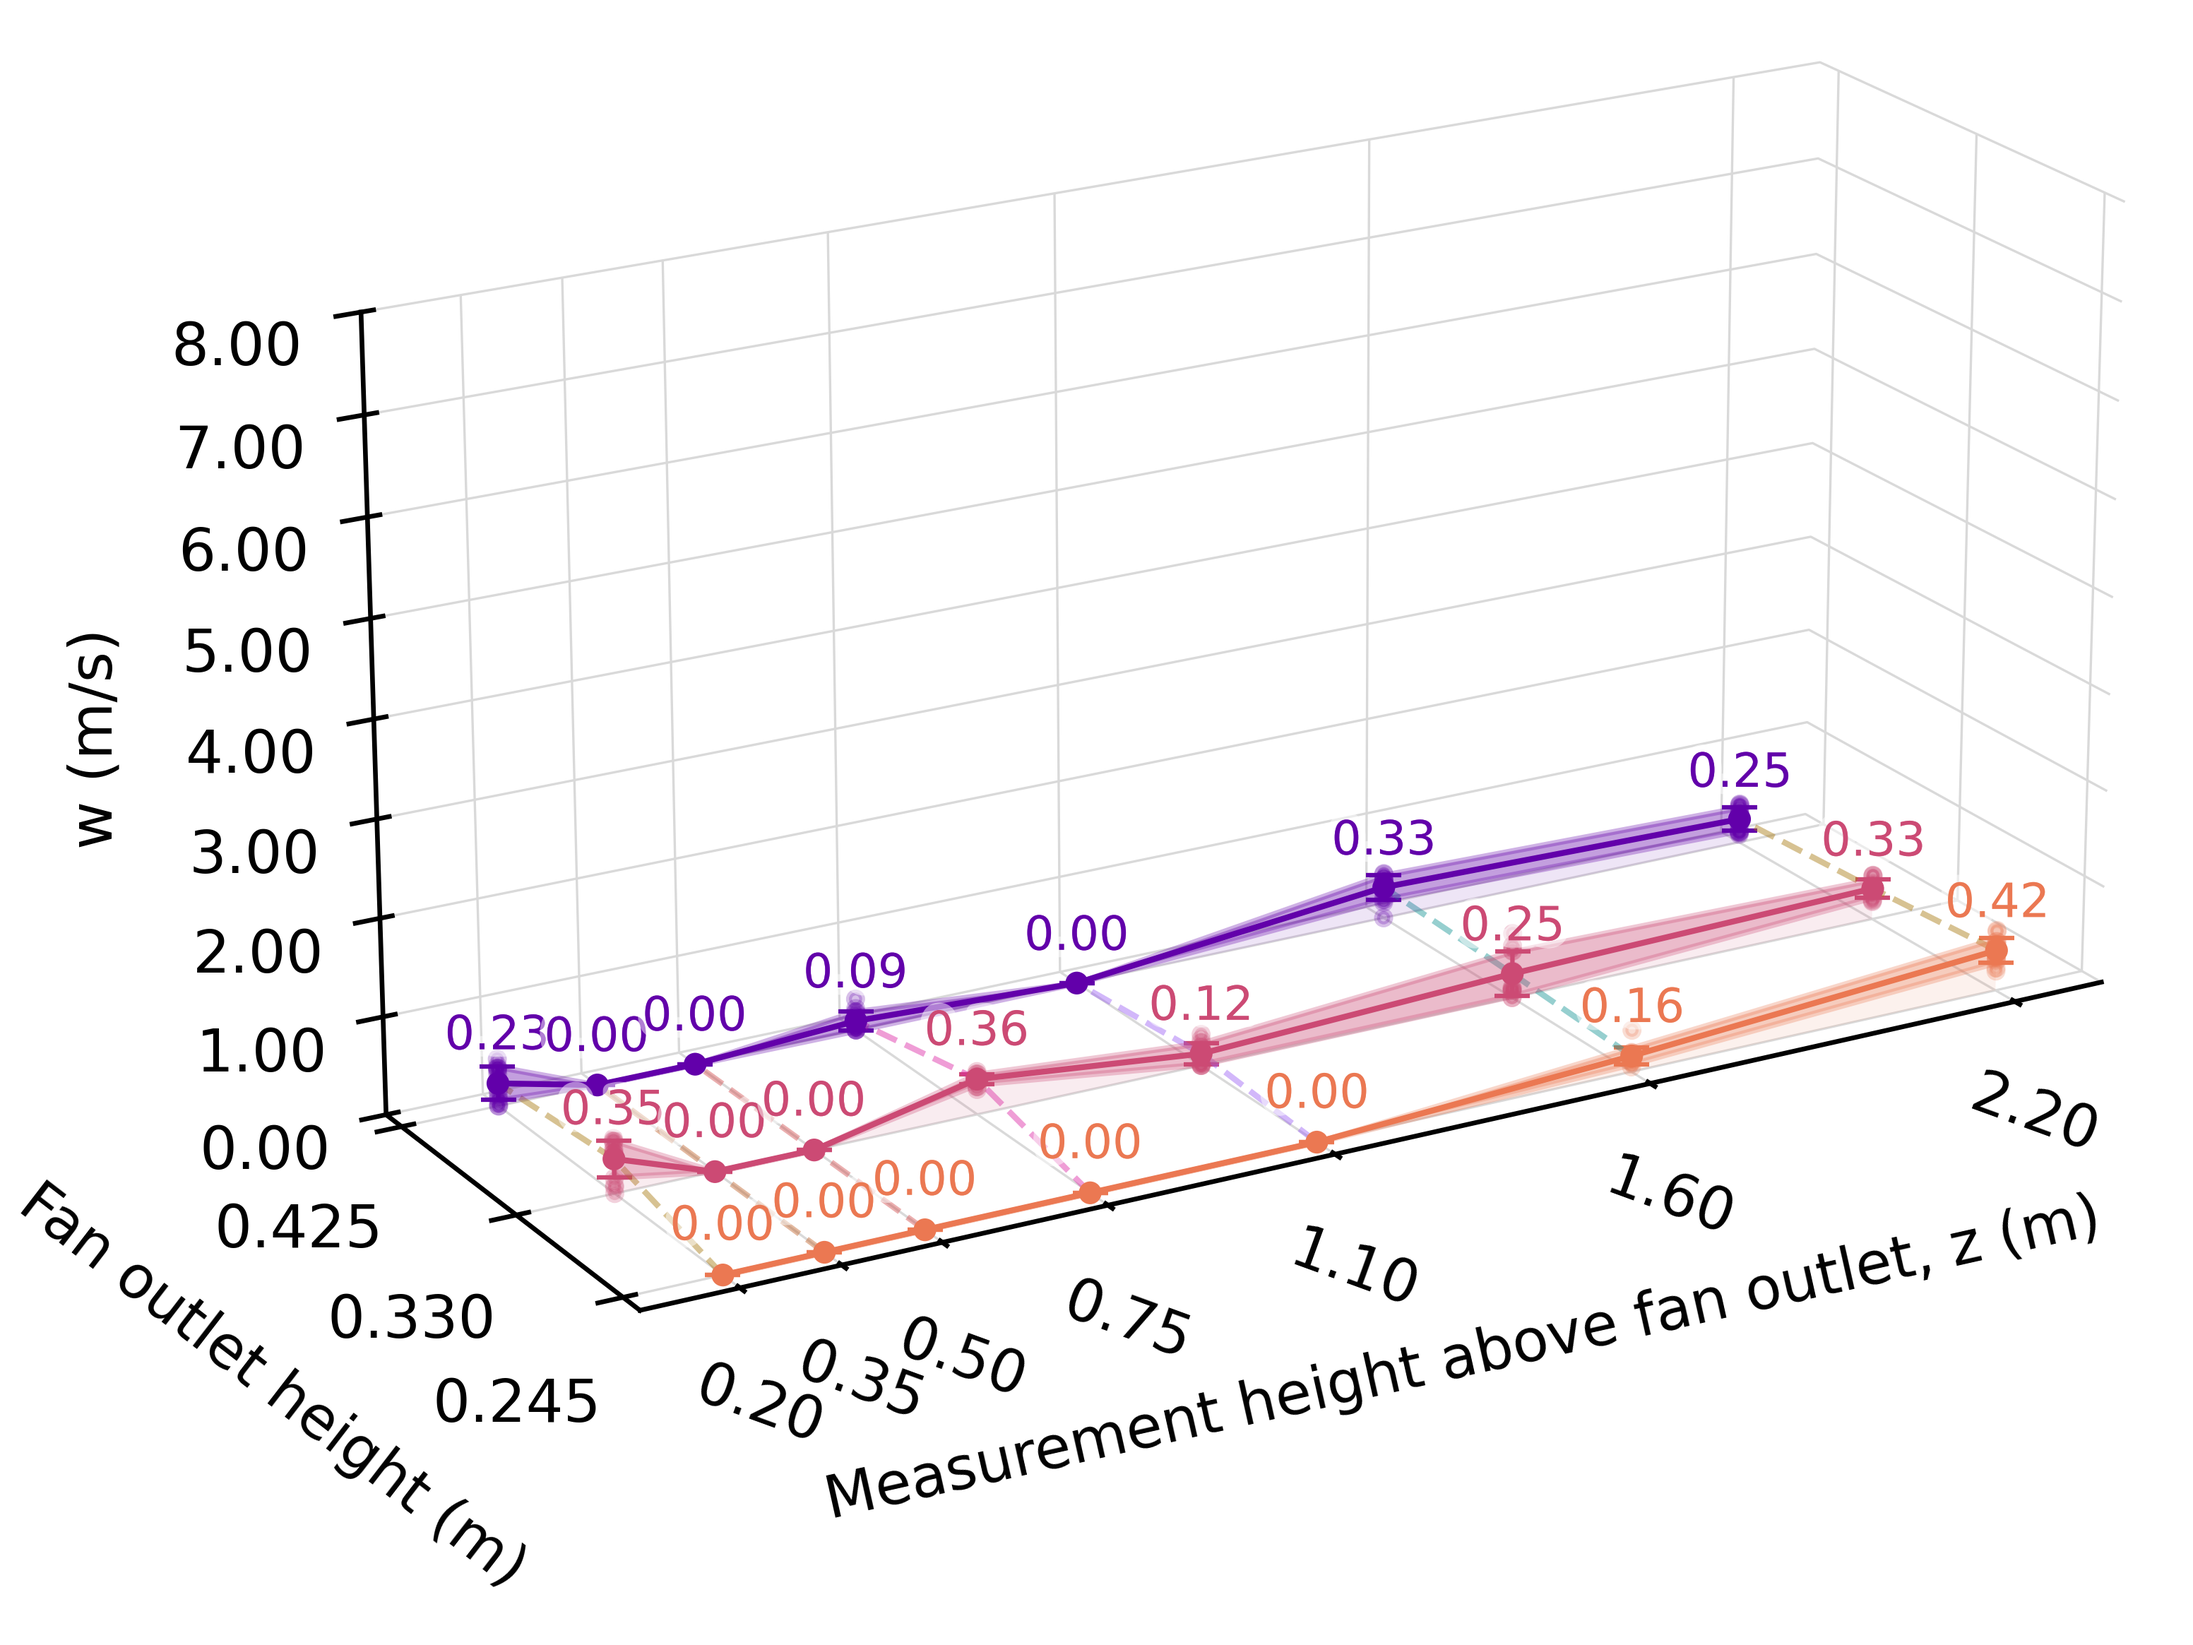
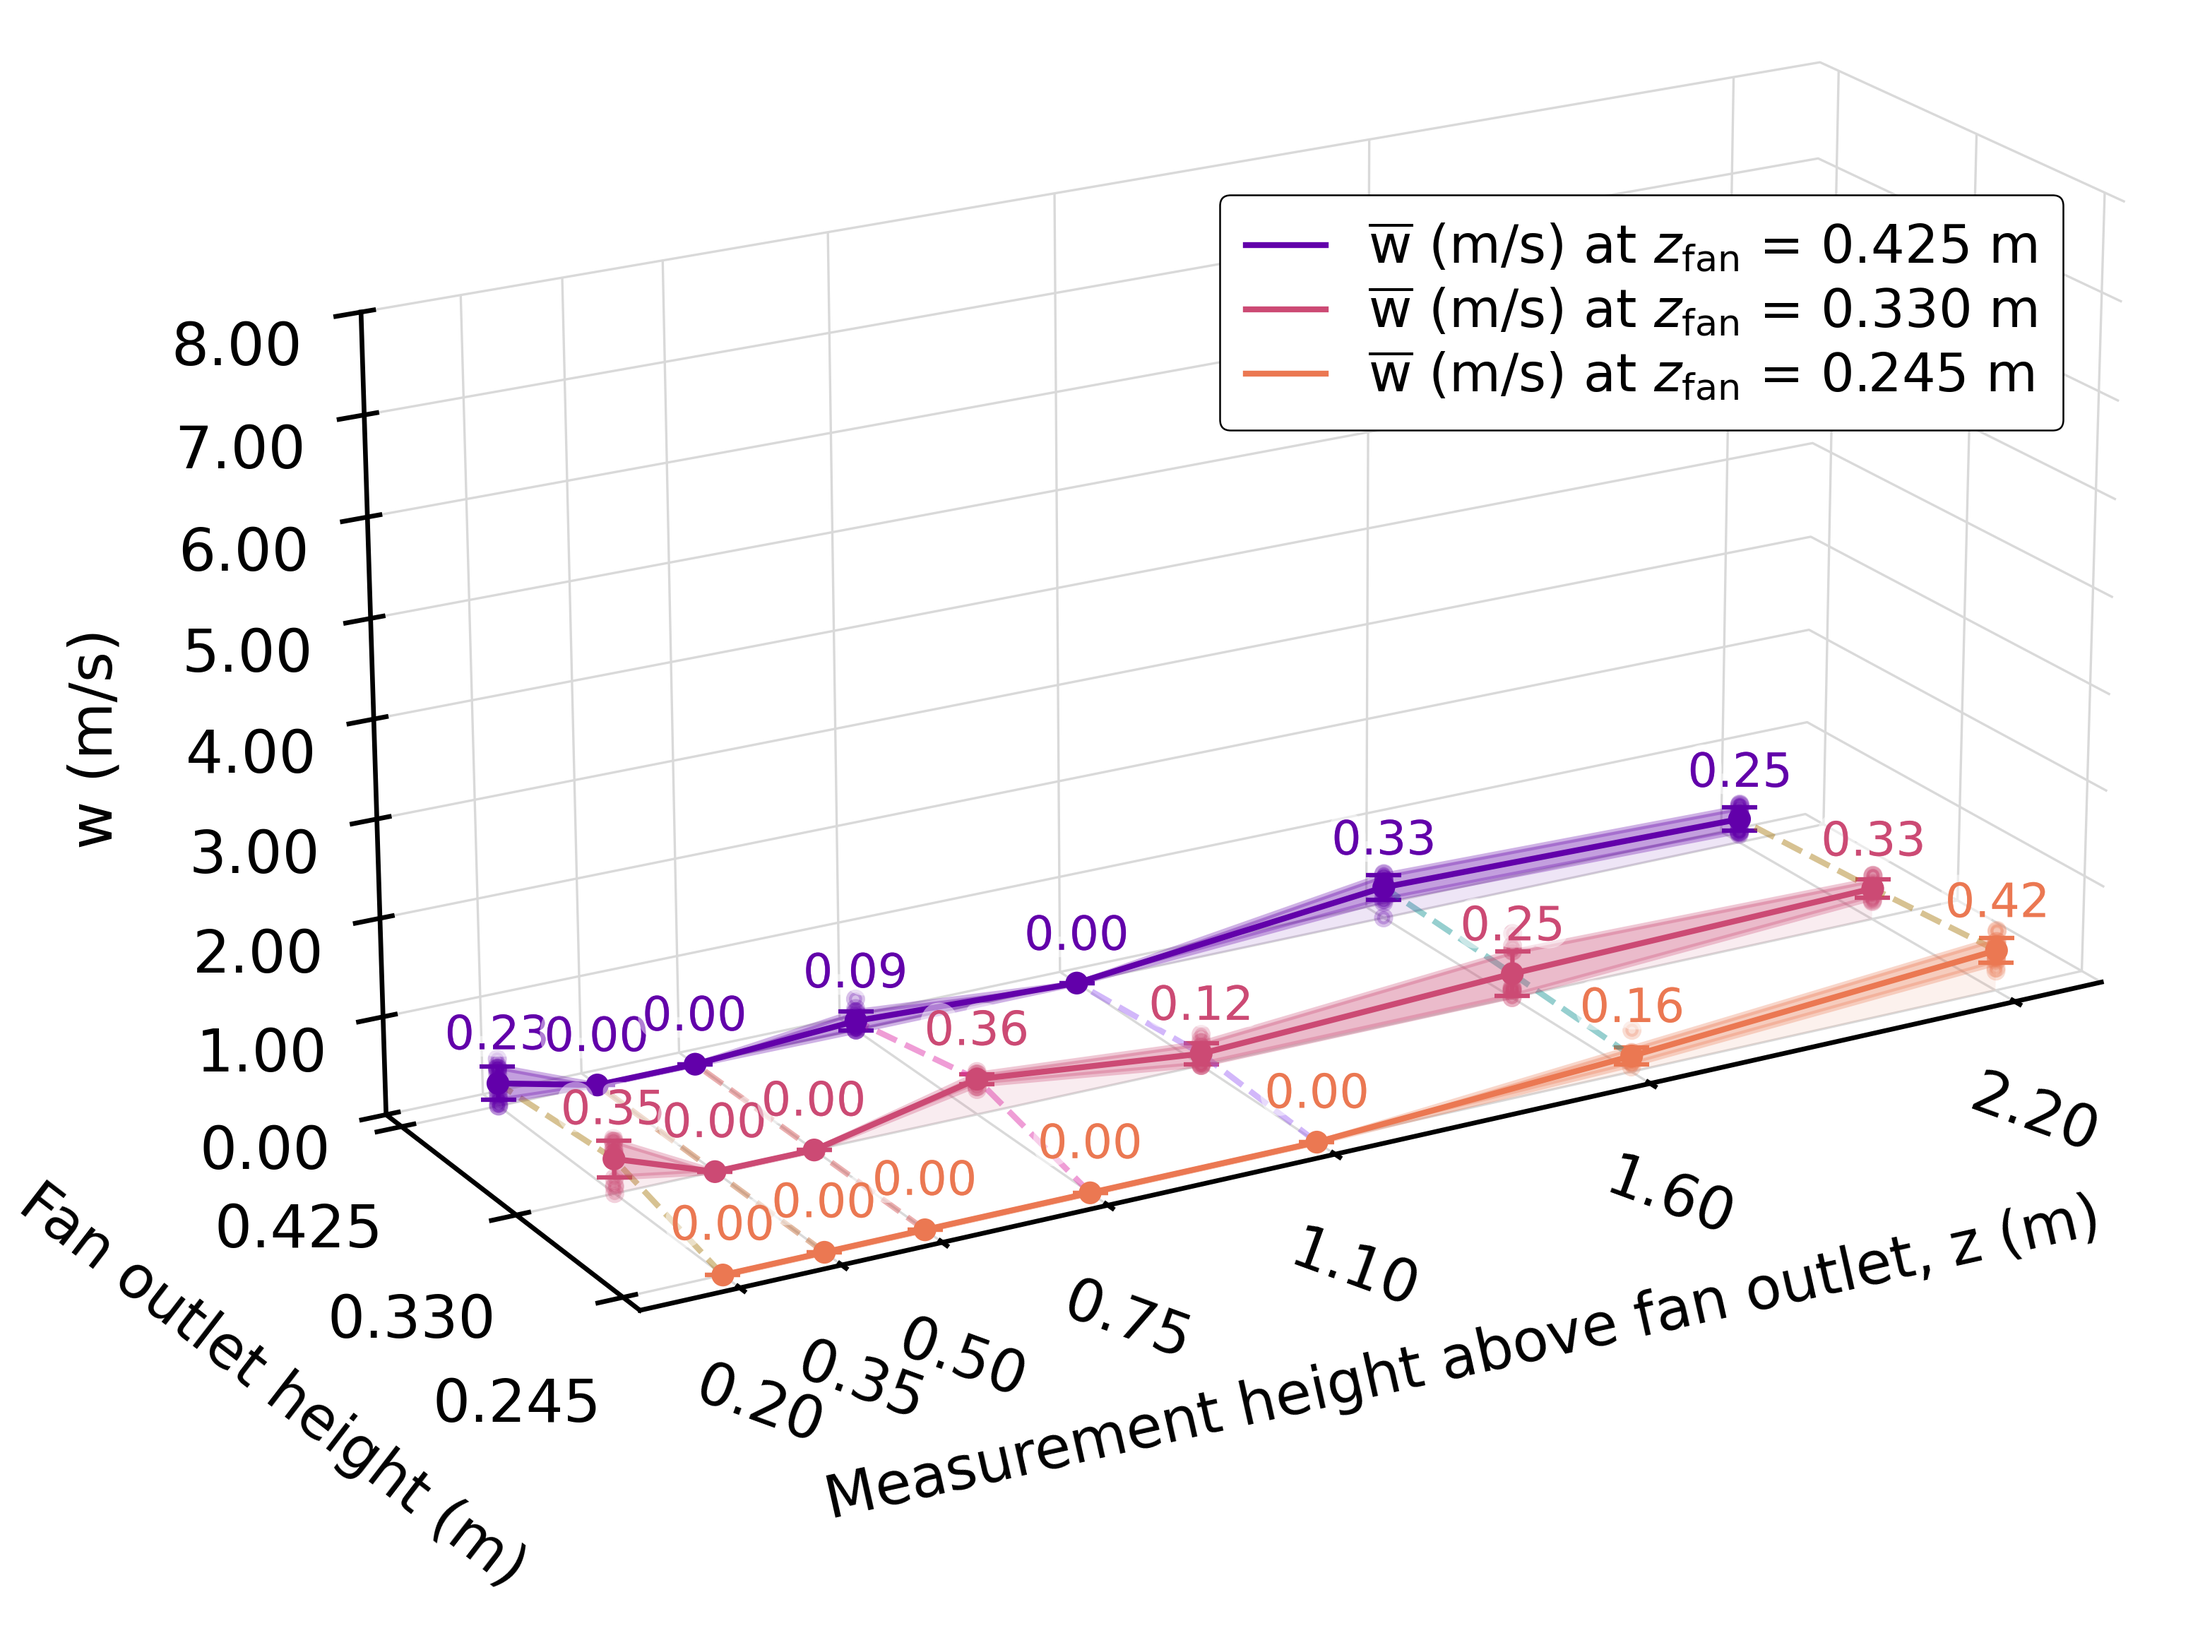
Thermal v1.2
- Python
- Plotting adjustment

Changed region(s): [[0.5623, 0.1237, 0.9372, 0.2473]]

diff --git a/B_Thermal/single_fan_ground_effect.py b/B_Thermal/single_fan_ground_effect.py
@@ -16,6 +16,15 @@ try:
 except ImportError:
     cmocean = None
 
+# Legend styling (match single_fan_heat_map.py)
+LEGEND_FONT_SIZE = 9
+LEGEND_FRAME_LW = 0.3
+LEGEND_LOC = "upper right"
+LEGEND_BBOX_TO_ANCHOR = (0.95, 0.77)
+LEGEND_HANDLE_LENGTH = 1.5
+LEGEND_BORDERPAD = 0.5
+LEGEND_LABEL_SPACING = 0.2
+
 
 ### Parsing utilities (your sheet layout)
 def parse_points_multiheader(excel_path: str, sheet_name: str):
@@ -151,6 +160,7 @@ def add_mean_std_band(
     mean_linewidth=1.0,
     errorbar_linewidth=0.75,
     errorbar_capsize=2.0,
+    mean_label=None,
 ):
     """
     Adds a filled polygon at y=y_const for the band [mean-std, mean+std].
@@ -190,6 +200,7 @@ def add_mean_std_band(
         mean,
         linewidth=mean_linewidth,
         color=color,
+        label=mean_label if mean_label is not None else "_nolegend_",
     )
 
     # error bars at each height: mean +/- std
@@ -213,6 +224,13 @@ def plot_point_3d(
     mean_linewidth=1.0,
     errorbar_linewidth=0.75,
     errorbar_capsize=2.0,
+    legend_loc=LEGEND_LOC,
+    legend_fontsize=LEGEND_FONT_SIZE,
+    legend_frame_lw=LEGEND_FRAME_LW,
+    legend_bbox_to_anchor=LEGEND_BBOX_TO_ANCHOR,
+    legend_handlelength=LEGEND_HANDLE_LENGTH,
+    legend_borderpad=LEGEND_BORDERPAD,
+    legend_labelspacing=LEGEND_LABEL_SPACING,
 ):
     d = summary_df[summary_df["point"] == point_id].copy()
     if d.empty:
@@ -244,6 +262,9 @@ def plot_point_3d(
         std = dd["std_w"].to_numpy(dtype=float)
 
         color = color_map.get(y0, "#4c78a8")
+        mean_label = (
+            rf"$\overline{{\mathrm{{w}}}}$ (m/s) at $z_{{\mathrm{{fan}}}}$ = {y0:.3f} m"
+        )
         add_mean_std_band(
             ax,
             x=x,
@@ -254,6 +275,7 @@ def plot_point_3d(
             mean_linewidth=mean_linewidth,
             errorbar_linewidth=errorbar_linewidth,
             errorbar_capsize=errorbar_capsize,
+            mean_label=mean_label,
         )
 
         # all raw points
@@ -266,6 +288,7 @@ def plot_point_3d(
                 s=5,
                 color=color,
                 alpha=0.25,
+                label="_nolegend_",
             )
 
         # mean markers
@@ -310,6 +333,7 @@ def plot_point_3d(
             linewidth=1,
             alpha=0.45,
             zorder=6,
+            label="_nolegend_",
         )
         for xi, yi, zi, si in zip(x_vals, y_vals, z_vals, std_vals):
             local_range = float(2.0 * si)
@@ -360,6 +384,22 @@ def plot_point_3d(
     ax.view_init(elev=20, azim=-120)
     fig.subplots_adjust(left=0.10, right=0.98, bottom=0.08, top=0.98)
 
+    legend_kwargs = {
+        "loc": legend_loc,
+        "frameon": True,
+        "framealpha": 1.0,
+        "edgecolor": "black",
+        "fontsize": legend_fontsize,
+        "handlelength": legend_handlelength,
+        "borderpad": legend_borderpad,
+        "labelspacing": legend_labelspacing,
+    }
+    if legend_bbox_to_anchor is not None:
+        legend_kwargs["bbox_to_anchor"] = legend_bbox_to_anchor
+    leg = ax.legend(**legend_kwargs)
+    if leg is not None:
+        leg.get_frame().set_linewidth(legend_frame_lw)
+
     extra_artists = (ax.xaxis.label, ax.yaxis.label, ax.zaxis.label)
     fig.savefig(
         out_path,
@@ -378,6 +418,13 @@ def main():
     mean_linewidth = 1.0
     errorbar_linewidth = 0.75
     errorbar_capsize = 3.0
+    legend_loc = LEGEND_LOC
+    legend_fontsize = LEGEND_FONT_SIZE
+    legend_frame_lw = LEGEND_FRAME_LW
+    legend_bbox_to_anchor = LEGEND_BBOX_TO_ANCHOR
+    legend_handlelength = LEGEND_HANDLE_LENGTH
+    legend_borderpad = LEGEND_BORDERPAD
+    legend_labelspacing = LEGEND_LABEL_SPACING
 
     summary = build_summary(excel_path)
 
@@ -391,6 +438,13 @@ def main():
             mean_linewidth=mean_linewidth,
             errorbar_linewidth=errorbar_linewidth,
             errorbar_capsize=errorbar_capsize,
+            legend_loc=legend_loc,
+            legend_fontsize=legend_fontsize,
+            legend_frame_lw=legend_frame_lw,
+            legend_bbox_to_anchor=legend_bbox_to_anchor,
+            legend_handlelength=legend_handlelength,
+            legend_borderpad=legend_borderpad,
+            legend_labelspacing=legend_labelspacing,
         )
 
     print(f"Done. Saved plots to: {out_dir.resolve()}")

diff --git a/B_Thermal/single_fan_mode.py b/B_Thermal/single_fan_mode.py
@@ -16,6 +16,15 @@ try:
 except ImportError:  # Fallback if cmocean isn't installed
     cmocean = None
 
+# Legend styling (match single_fan_heat_map.py)
+LEGEND_FONT_SIZE = 9
+LEGEND_FRAME_LW = 0.3
+LEGEND_LOC = "upper right"
+LEGEND_BBOX_TO_ANCHOR = (0.95, 0.77)
+LEGEND_HANDLE_LENGTH = 1.5
+LEGEND_BORDERPAD = 0.5
+LEGEND_LABEL_SPACING = 0.2
+
 
 ### Parsing utilities
 def parse_points_multiheader(excel_path: str, sheet_name: str):
@@ -150,6 +159,7 @@ def add_mean_std_band(
     mean_linewidth=1.0,
     errorbar_linewidth=0.75,
     errorbar_capsize=2.0,
+    mean_label=None,
 ):
     """
     Adds a filled polygon at y=y_const for the band [mean-std, mean+std].
@@ -189,6 +199,7 @@ def add_mean_std_band(
         mean,
         linewidth=mean_linewidth,
         color=color,
+        label=mean_label if mean_label is not None else "_nolegend_",
     )
 
     # error bars at each height: mean +/- std
@@ -212,6 +223,13 @@ def plot_point_3d(
     mean_linewidth=1.0,
     errorbar_linewidth=0.75,
     errorbar_capsize=2.0,
+    legend_loc=LEGEND_LOC,
+    legend_fontsize=LEGEND_FONT_SIZE,
+    legend_frame_lw=LEGEND_FRAME_LW,
+    legend_bbox_to_anchor=LEGEND_BBOX_TO_ANCHOR,
+    legend_handlelength=LEGEND_HANDLE_LENGTH,
+    legend_borderpad=LEGEND_BORDERPAD,
+    legend_labelspacing=LEGEND_LABEL_SPACING,
 ):
     d = summary_df[summary_df["point"] == point_id].copy()
     if d.empty:
@@ -246,6 +264,7 @@ def plot_point_3d(
         std = dd["std_w"].to_numpy(dtype=float)
 
         color = color_map.get(y0, "#4c78a8")
+        mean_label = rf"$\overline{{\mathrm{{w}}}}$ (m/s) at $\omega$ = {int(y0)} rpm"
         add_mean_std_band(
             ax,
             x=x,
@@ -256,6 +275,7 @@ def plot_point_3d(
             mean_linewidth=mean_linewidth,
             errorbar_linewidth=errorbar_linewidth,
             errorbar_capsize=errorbar_capsize,
+            mean_label=mean_label,
         )
 
         # all raw points
@@ -268,6 +288,7 @@ def plot_point_3d(
                 s=5,
                 color=color,
                 alpha=0.25,
+                label="_nolegend_",
             )
 
         # mean markers
@@ -312,6 +333,7 @@ def plot_point_3d(
             linewidth=1,
             alpha=0.45,
             zorder=6,
+            label="_nolegend_",
         )
         for xi, yi, zi, si in zip(x_vals, y_vals, z_vals, std_vals):
             local_range = float(2.0 * si)
@@ -361,6 +383,22 @@ def plot_point_3d(
     ax.view_init(elev=20, azim=-120)
     fig.subplots_adjust(left=0.10, right=0.98, bottom=0.08, top=0.98)
 
+    legend_kwargs = {
+        "loc": legend_loc,
+        "frameon": True,
+        "framealpha": 1.0,
+        "edgecolor": "black",
+        "fontsize": legend_fontsize,
+        "handlelength": legend_handlelength,
+        "borderpad": legend_borderpad,
+        "labelspacing": legend_labelspacing,
+    }
+    if legend_bbox_to_anchor is not None:
+        legend_kwargs["bbox_to_anchor"] = legend_bbox_to_anchor
+    leg = ax.legend(**legend_kwargs)
+    if leg is not None:
+        leg.get_frame().set_linewidth(legend_frame_lw)
+
     if x_pos is not None and y_pos is not None:
         fig.text(
             0.98,
@@ -389,6 +427,13 @@ def main():
     mean_linewidth = 1.0
     errorbar_linewidth = 0.75
     errorbar_capsize = 3.0
+    legend_loc = LEGEND_LOC
+    legend_fontsize = LEGEND_FONT_SIZE
+    legend_frame_lw = LEGEND_FRAME_LW
+    legend_bbox_to_anchor = LEGEND_BBOX_TO_ANCHOR
+    legend_handlelength = LEGEND_HANDLE_LENGTH
+    legend_borderpad = LEGEND_BORDERPAD
+    legend_labelspacing = LEGEND_LABEL_SPACING
 
     summary = build_summary(excel_path)
 
@@ -402,6 +447,13 @@ def main():
             mean_linewidth=mean_linewidth,
             errorbar_linewidth=errorbar_linewidth,
             errorbar_capsize=errorbar_capsize,
+            legend_loc=legend_loc,
+            legend_fontsize=legend_fontsize,
+            legend_frame_lw=legend_frame_lw,
+            legend_bbox_to_anchor=legend_bbox_to_anchor,
+            legend_handlelength=legend_handlelength,
+            legend_borderpad=legend_borderpad,
+            legend_labelspacing=legend_labelspacing,
         )
 
     print(f"Done. Saved plots to: {out_dir.resolve()}")
